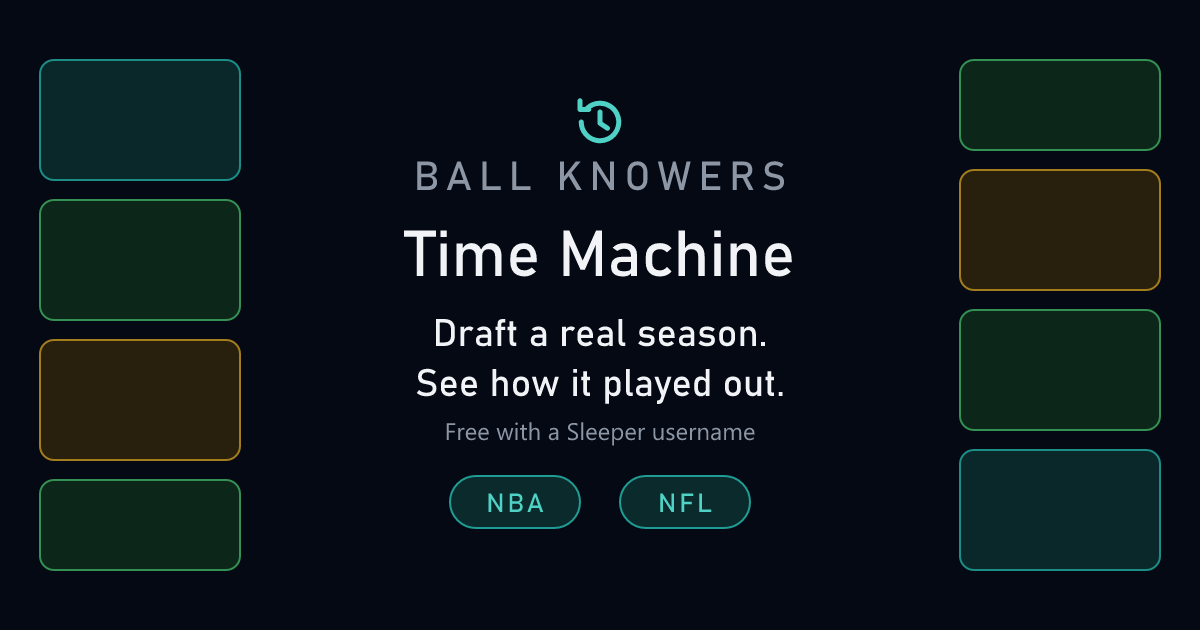
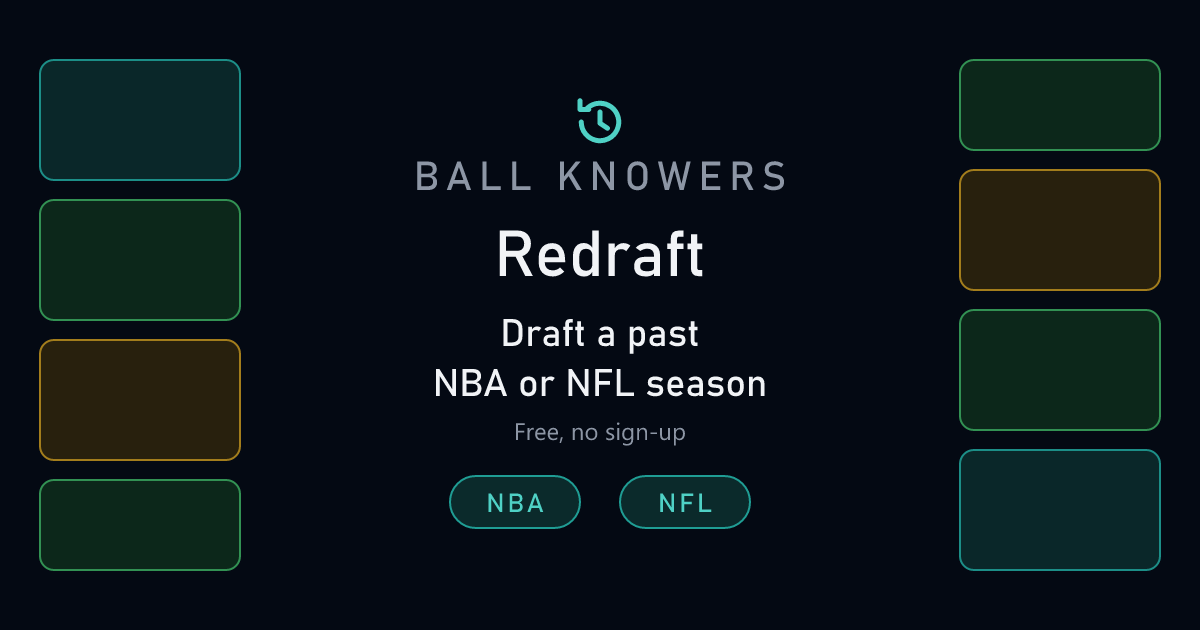
Re-render the Redraft link-preview image (spec 074, T030)
The PNG still read "Time Machine ... Free with a Sleeper username" after the
rename; only its SVG source had been reworded. Rendered with render.mjs and
checked by eye: BALL KNOWERS / Redraft / Draft a past NBA or NFL season.
This closes the one failing acceptance check (FR-001, US2.1).

Changed region(s): [[0.3392, 0.4825, 0.6475, 0.6333], [0.3392, 0.3619, 0.6783, 0.4524], [0.37, 0.6635, 0.6475, 0.7238]]

diff --git a/HANDOFF.md b/HANDOFF.md
@@ -41,7 +41,7 @@ in `claude/lessons.md` come from this spec.
 - Cold cost of the season fetch: 47 NBA seasons in 39.4 s, one after another. The JVM ran C1-only with the
   default heap, **not `-Xmx1024m`** (`t017-measurements.md`).
 
-**FAILS a requirement until done: the link-preview image.** `web/public/og-image-tm.png` still reads "Time
+**Corrected 2026-11-17, after this block was written: the link-preview image is now re-rendered and reads "Ball Knowers Redraft" (Allan approved the renderer install; the PNG was opened and checked; T030 ticked). What follows is the earlier state, kept as written.** Was: FAILS a requirement until done: the link-preview image. `web/public/og-image-tm.png` still reads "Time
 Machine" and "Free with a Sleeper username". The SVG source is reworded; the PNG was never re-rendered, and
 every page's `og:image` points at it. That breaks spec FR-001 and US2.1 (verification V-01, code-review CR-01;
 task T030 is unticked). Re-rendering needs `@resvg/resvg-js`, whose install was denied to a subagent and
@@ -100,7 +100,7 @@ has no V50. Run the backend with `DB_URL=jdbc:postgresql://localhost:5433/drafts
 deleted the 12 games it made; the sequences were not reset.
 
 **Next:**
-1. Allan: say yes or no to installing `@resvg/resvg-js`; then re-render `og-image-tm.png`, look at it, tick T030.
+1. DONE 2026-11-17 (image re-rendered, see the correction above). Was: Allan: say yes or no to installing `@resvg/resvg-js`; then re-render `og-image-tm.png`, look at it, tick T030.
 2. Re-check fix pass 2 in the browser (V-02 focus after moving between season pages, V-04 no guest flash for a signed-in visitor, V-05 touch heights); the suites were run after it, the browser was not.
 3. Import NFL seasons into `draftsim_074` (or run the checks on a copy of production's data) and re-verify the
    football pages, the football daily and the sitemap count; then close T047.

diff --git a/specs/074-redraft-seo/tasks.md b/specs/074-redraft-seo/tasks.md
@@ -69,7 +69,7 @@
 
 - [x] T028 [US2] Replace every reader-facing "Time Machine" with the Redraft wording in design.md: `tmLandingCopy.ts`, `historicalCopy.ts`, `historicalShare.ts`, `siteCopy.ts`, `App.tsx` titles, `TimeMachineShell.tsx`, `AccountMenu.tsx`, `NotFound.tsx`, `PageHeader.tsx`, `HistoricalRoomLayout.tsx`, `HistoricalProfileCard.tsx`, `SignInForm.tsx`, `analytics.ts` labels, and the rest of the 28 files `grep -ril "time machine" web/src` lists. File, class and CSS names stay.
 - [x] T029 [US2] `historicalShare.ts` + test: title "Ball Knowers Redraft"; season and sport; "Chosen season" when set; link is the game's own address through `tmGame` (never a path literal).
-- [ ] T030 [US2] `web/scripts/og-image/og-image-tm.svg` reworded and re-rendered to `web/public/og-image-tm.png` with the existing `render.mjs`; look at the PNG before calling it done.
+- [x] T030 [US2] `web/scripts/og-image/og-image-tm.svg` reworded and re-rendered to `web/public/og-image-tm.png` with the existing `render.mjs`; look at the PNG before calling it done.
 - [x] T031 [US2] New test `web/src/redraft.naming.test.ts`: no "Time Machine" (any case) in any string exported by the copy modules or in the static HTML of every page built from the fixture; every indexable title contains "Redraft" and a year or "past"/"Past". Update the tests that pinned the old name.
 
 ---
